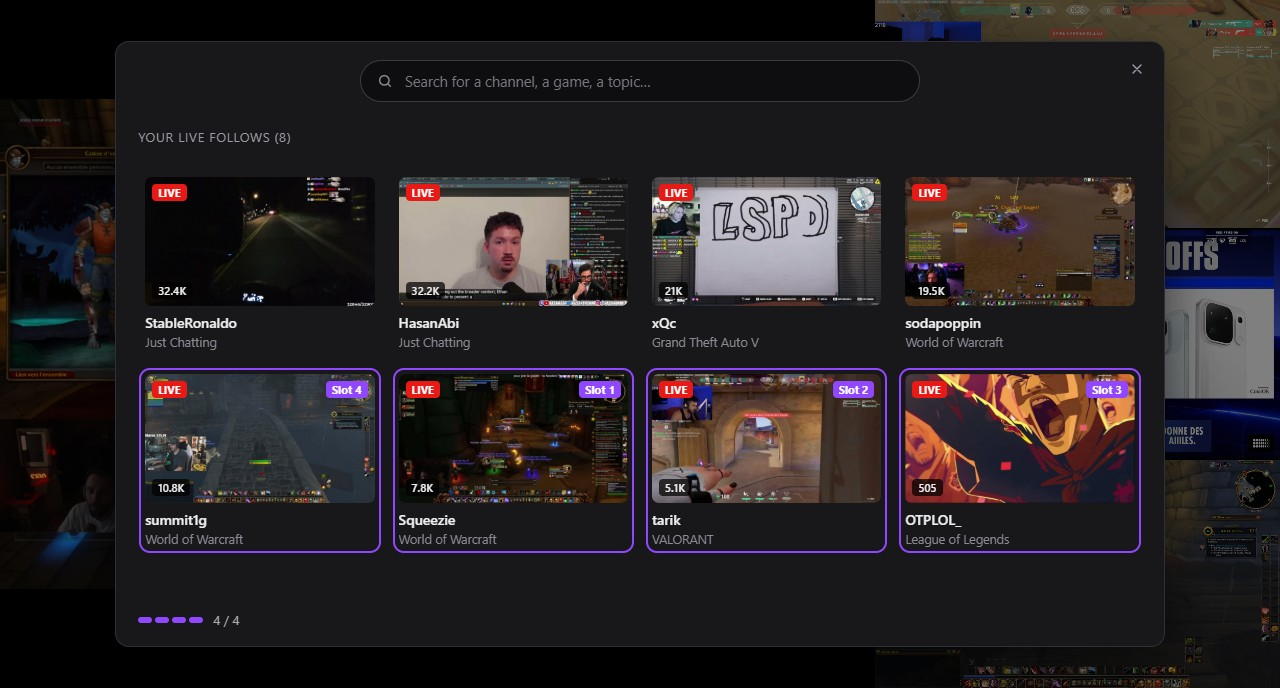
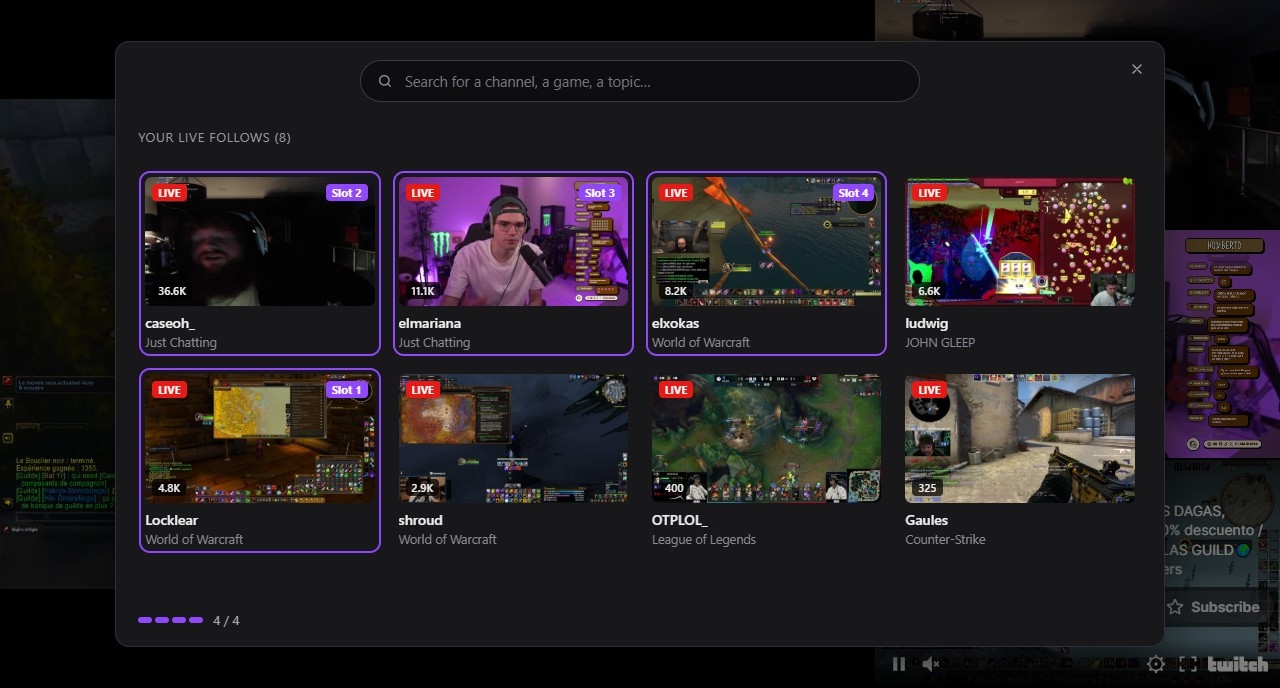
README: new screenshots with streamers from several countries
Locklear, caseoh_, elmariana and elxokas on screen, a mix of French,
English, Spanish and Brazilian channels in the follows, and a new
screenshot of a game page (Minecraft) listing its live streams.

diff --git a/README.md b/README.md
@@ -14,6 +14,10 @@ The name comes from Argos, the hundred-eyed giant of Greek mythology, who never 
 
 ![The stream picker: live follows, with slots 1 to 4 already taken](docs/screenshots/choose-streams.jpg)
 
+**Browse a game.** Search for a game or a topic to see every channel streaming it live, from the most watched to the least, in your language or in all of them.
+
+![The Minecraft page: hundreds of live streams in a grid, with a language filter](docs/screenshots/game.jpg)
+
 **Spotlight a stream.** Right-click a stream to make it big, the others stack up next to it. The controls (pause, volume, quality) only show up when the mouse moves over the stream.
 
 ![One big stream on the left with its control bar, three small ones stacked on the right](docs/screenshots/spotlight.jpg)
